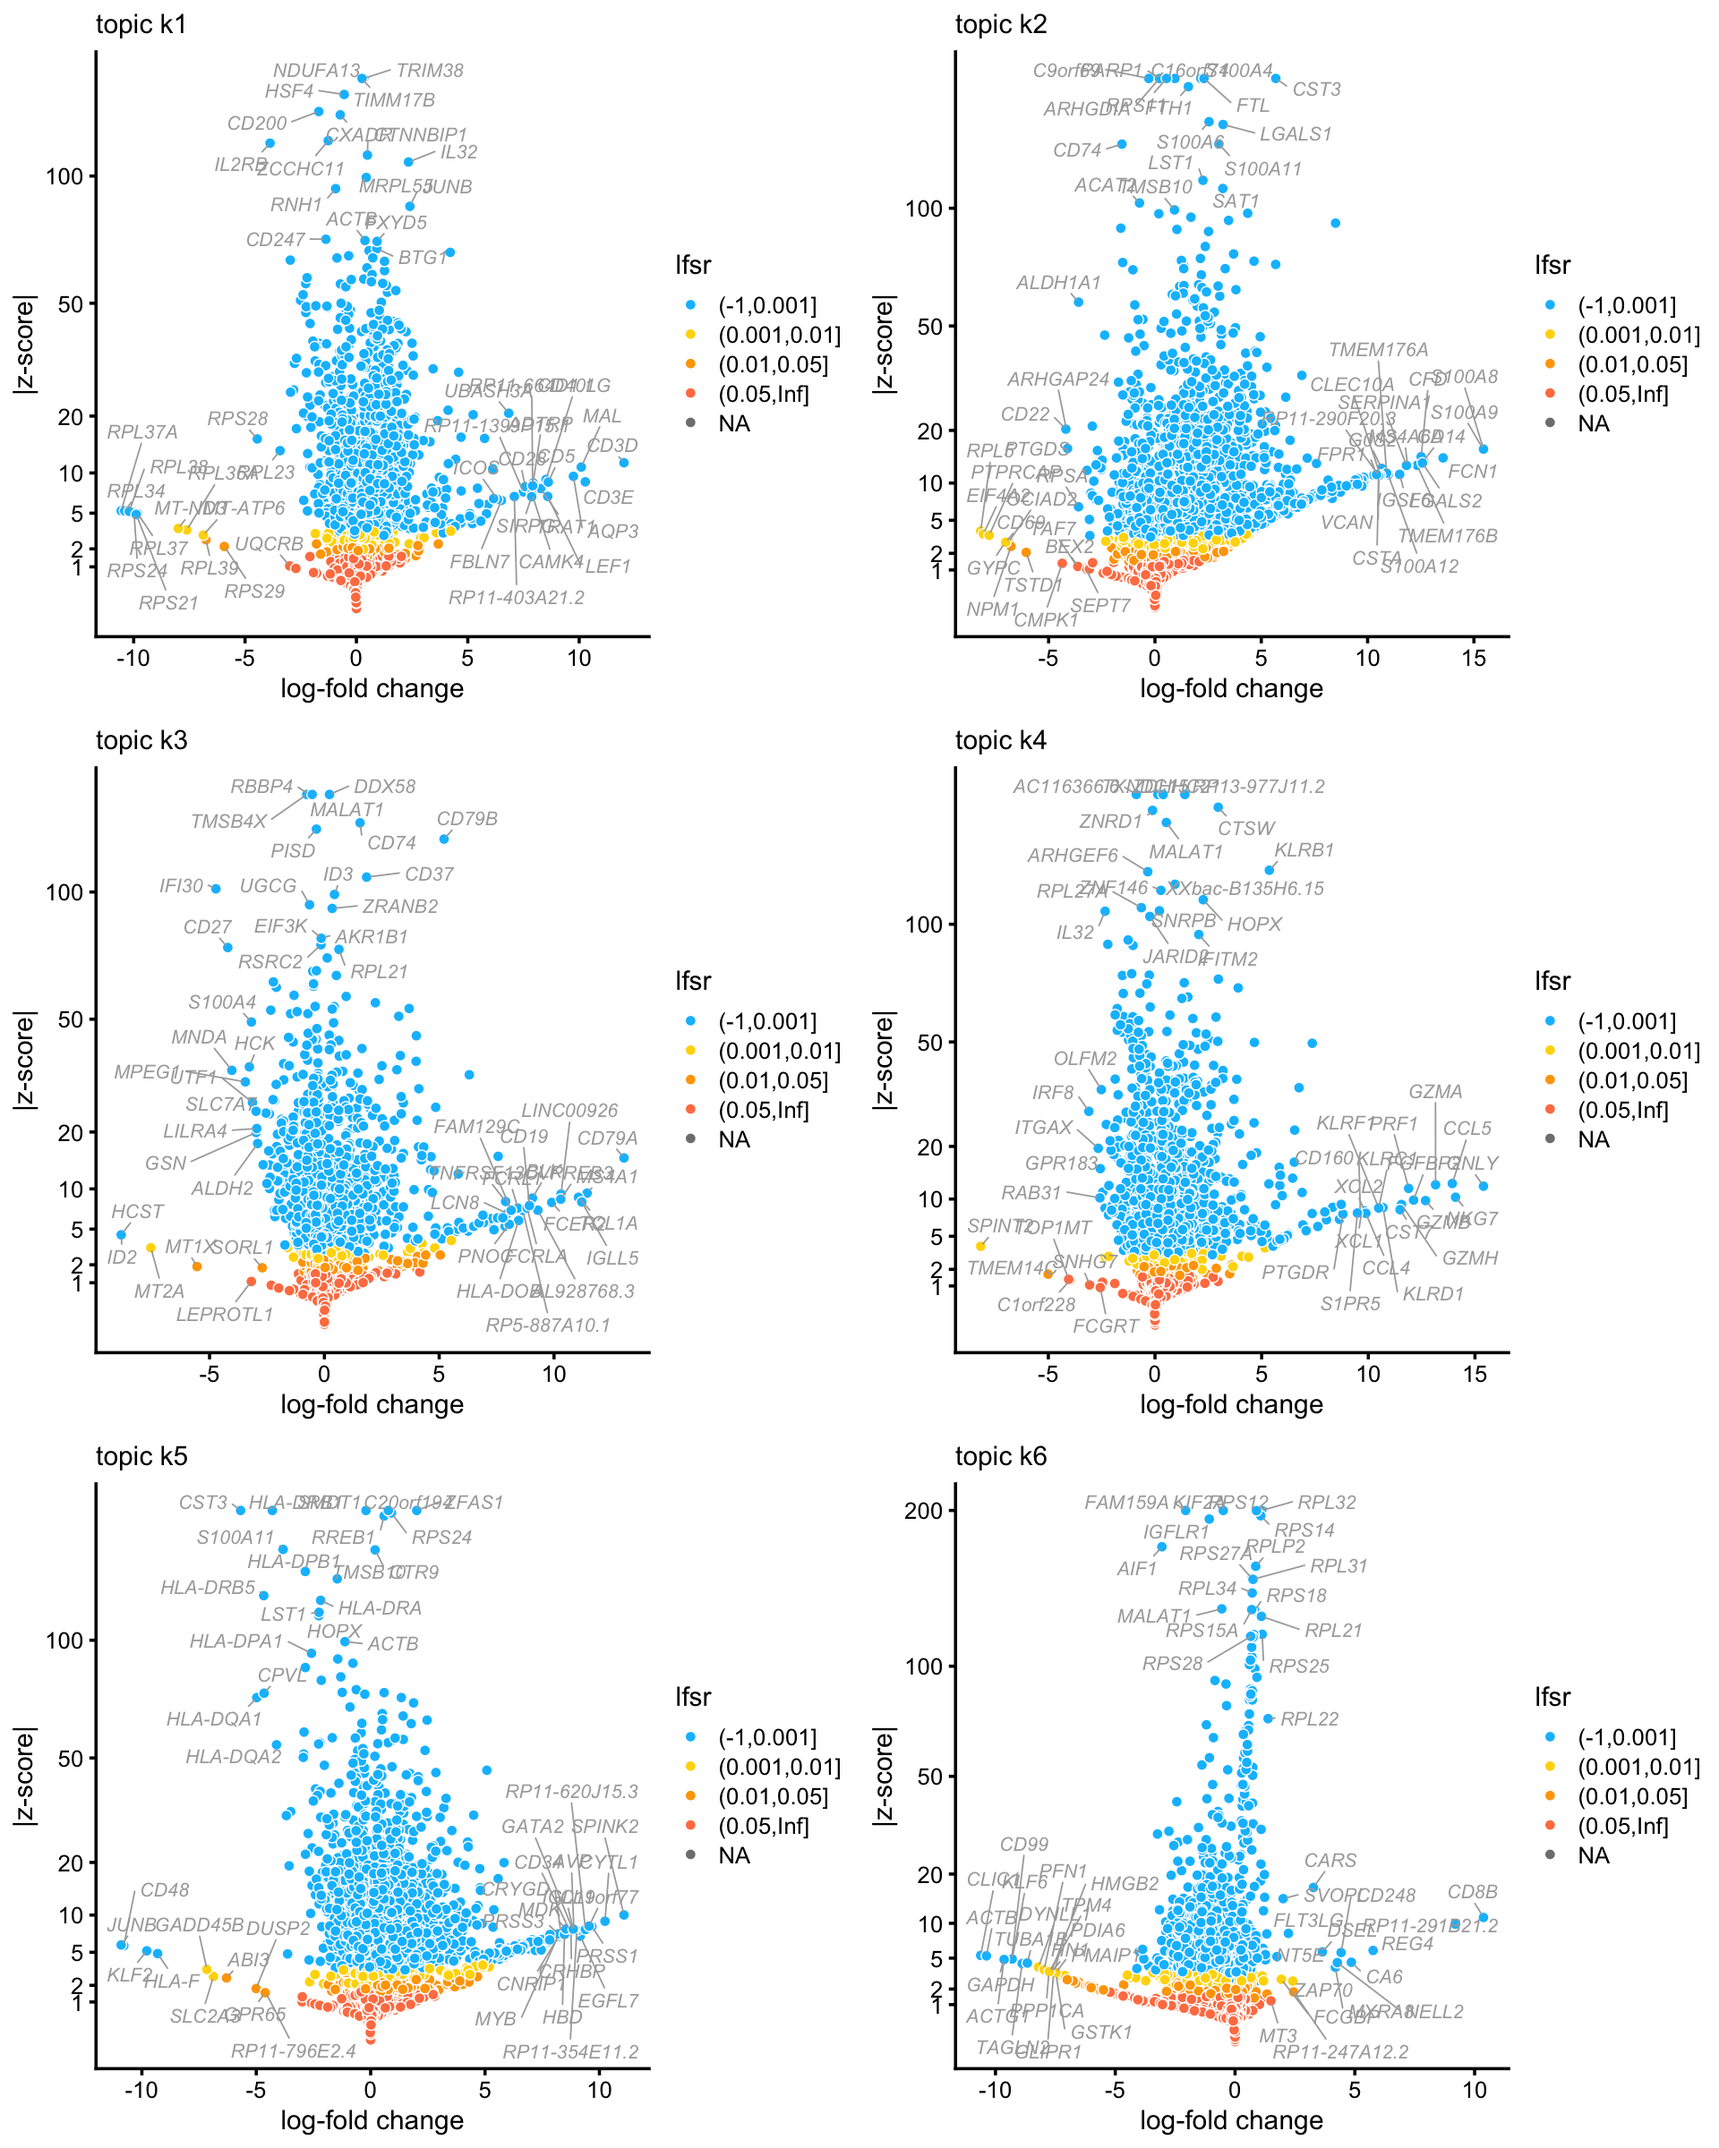
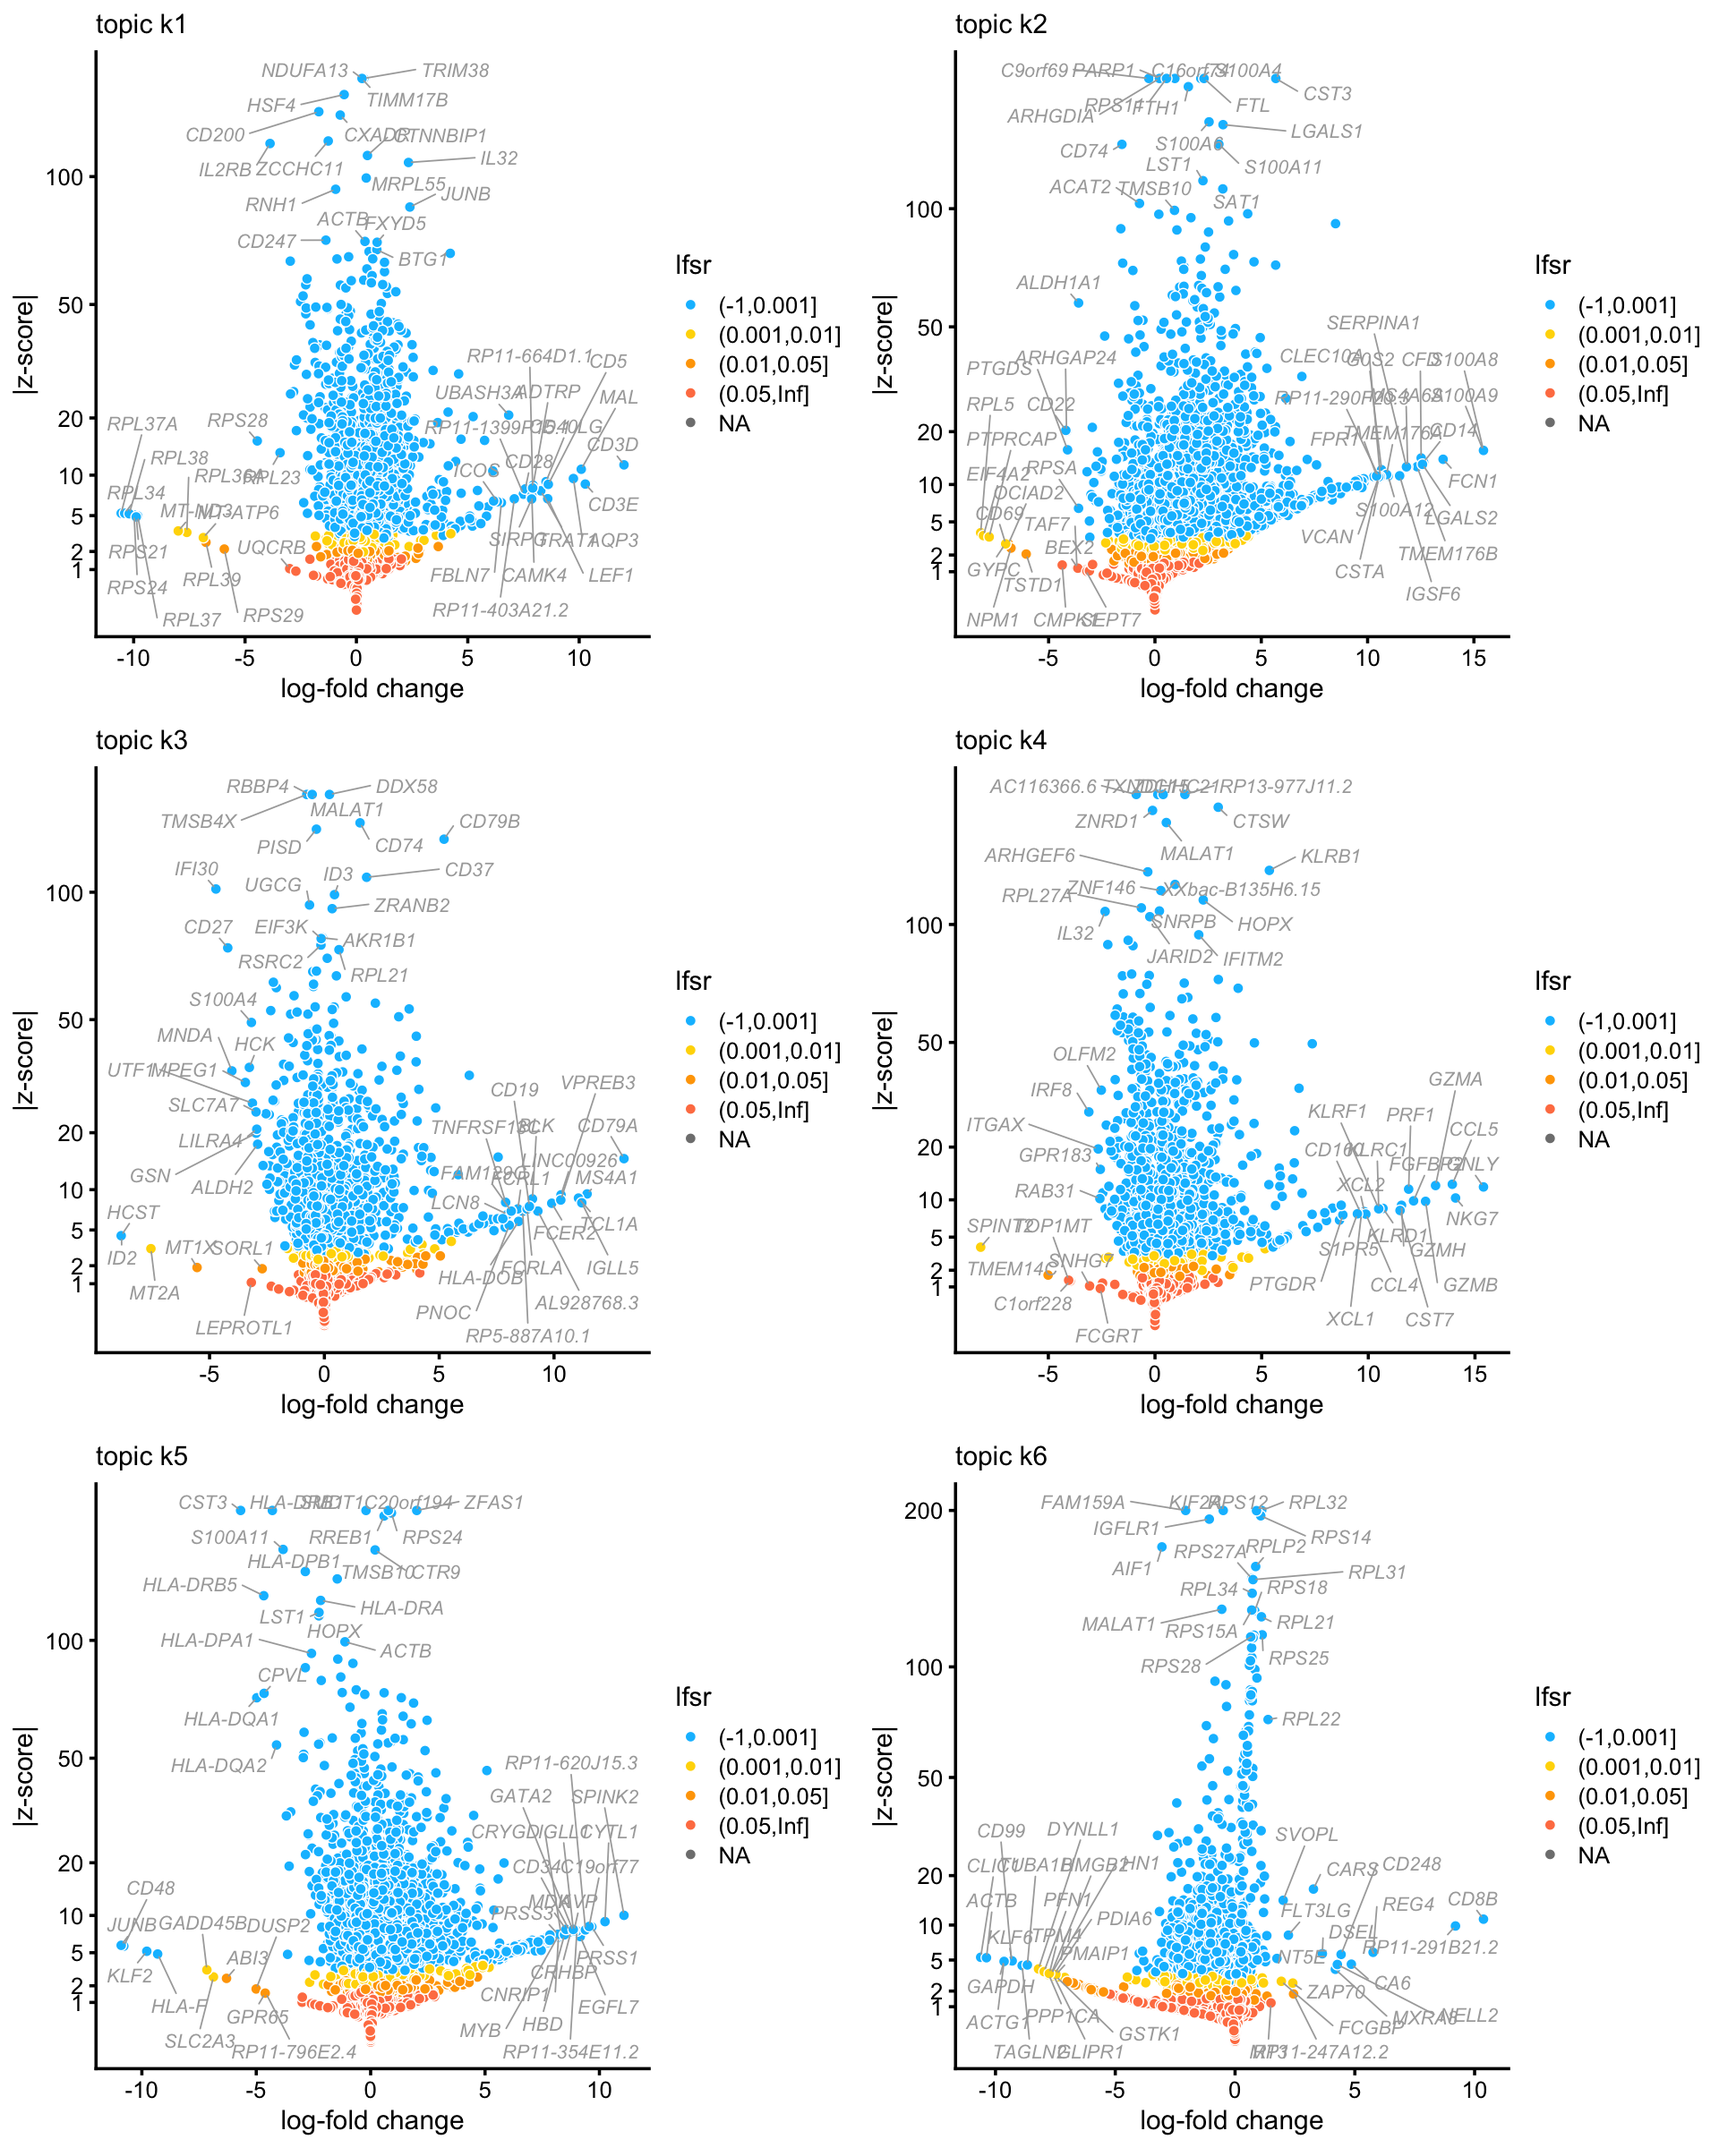
Revised the volcano plots in the de_analysis_purified_pbmc analysis.

diff --git a/docs/de_analysis_purified_pbmc.html b/docs/de_analysis_purified_pbmc.html
@@ -323,7 +323,7 @@ $(document).ready(function () {
 <div class="tab-content">
 <div id="summary" class="tab-pane fade in active">
 <p>
-<strong>Last updated:</strong> 2021-12-09
+<strong>Last updated:</strong> 2021-12-10
 </p>
 <p>
 <strong>Checks:</strong> <span class="glyphicon glyphicon-ok text-success" aria-hidden="true"></span> 7 <span class="glyphicon glyphicon-exclamation-sign text-danger" aria-hidden="true"></span> 0
@@ -414,16 +414,16 @@ This reproducible <a href="http://rmarkdown.rstudio.com">R Markdown</a> analysis
 <div class="panel panel-default">
 <div class="panel-heading">
 <p class="panel-title">
-<a data-toggle="collapse" data-parent="#workflowr-checks" href="#strongRepositoryversionstrongahrefhttpsgithubcomstephenslabsinglecelltopicstree7a99e6b0ca36e515f7a65173c32d9951f303cea5targetblank7a99e6ba"> <span class="glyphicon glyphicon-ok text-success" aria-hidden="true"></span> <strong>Repository version:</strong> <a href="https://github.com/stephenslab/single-cell-topics/tree/7a99e6b0ca36e515f7a65173c32d9951f303cea5" target="_blank">7a99e6b</a> </a>
+<a data-toggle="collapse" data-parent="#workflowr-checks" href="#strongRepositoryversionstrongahrefhttpsgithubcomstephenslabsinglecelltopicstree4aac42e3a7743981f7dd6d23c6e7d5aa73739eb9targetblank4aac42ea"> <span class="glyphicon glyphicon-ok text-success" aria-hidden="true"></span> <strong>Repository version:</strong> <a href="https://github.com/stephenslab/single-cell-topics/tree/4aac42e3a7743981f7dd6d23c6e7d5aa73739eb9" target="_blank">4aac42e</a> </a>
 </p>
 </div>
[2 lines of base64/hex data omitted]
 <div class="panel-body">
 <p>
 Great! You are using Git for version control. Tracking code development and connecting the code version to the results is critical for reproducibility.
 </p>
 <p>
-The results in this page were generated with repository version <a href="https://github.com/stephenslab/single-cell-topics/tree/7a99e6b0ca36e515f7a65173c32d9951f303cea5" target="_blank">7a99e6b</a>. See the <em>Past versions</em> tab to see a history of the changes made to the R Markdown and HTML files.
+The results in this page were generated with repository version <a href="https://github.com/stephenslab/single-cell-topics/tree/4aac42e3a7743981f7dd6d23c6e7d5aa73739eb9" target="_blank">4aac42e</a>. See the <em>Past versions</em> tab to see a history of the changes made to the R Markdown and HTML files.
 </p>
 <p>
 Note that you need to be careful to ensure that all relevant files for the analysis have been committed to Git prior to generating the results (you can use <code>wflow_publish</code> or <code>wflow_git_commit</code>). workflowr only checks the R Markdown file, but you know if there are other scripts or data files that it depends on. Below is the status of the Git repository when the results were generated:
@@ -446,6 +446,7 @@ Ignored files:
     Ignored:    output/pulseseq/rds/
 
 Untracked files:
+    Untracked:  .DS_Store
     Untracked:  analysis/de_analysis_detailed_look_cache/
     Untracked:  analysis/de_analysis_detailed_look_more_cache/
     Untracked:  plots/
@@ -487,6 +488,57 @@ Message
 </tr>
 </thead>
 <tbody>
+<tr>
+<td>
+Rmd
+</td>
+<td>
+<a href="https://github.com/stephenslab/single-cell-topics/blob/4aac42e3a7743981f7dd6d23c6e7d5aa73739eb9/analysis/de_analysis_purified_pbmc.Rmd" target="_blank">4aac42e</a>
+</td>
+<td>
+Peter Carbonetto
+</td>
+<td>
+2021-12-10
+</td>
+<td>
+workflowr::wflow_publish(“de_analysis_purified_pbmc.Rmd”, verbose = TRUE)
+</td>
+</tr>
+<tr>
+<td>
+Rmd
+</td>
+<td>
+<a href="https://github.com/stephenslab/single-cell-topics/blob/c1825e6d982b62c409d7b606889f36ceb232fdfe/analysis/de_analysis_purified_pbmc.Rmd" target="_blank">c1825e6</a>
+</td>
+<td>
+Peter Carbonetto
+</td>
+<td>
+2021-12-09
+</td>
+<td>
+Small fix to ggsave call in de_analysis_purified_pbmc analysis.
+</td>
+</tr>
+<tr>
+<td>
+html
+</td>
+<td>
+<a href="https://rawcdn.githack.com/stephenslab/single-cell-topics/241361544a8108e4d291d6654673f7182f2bb60f/docs/de_analysis_purified_pbmc.html" target="_blank">2413615</a>
+</td>
+<td>
+Peter Carbonetto
+</td>
+<td>
+2021-12-09
+</td>
+<td>
+Revised a number of plots in the de_analysis_purified_pbmc analysis.
+</td>
+</tr>
 <tr>
 <td>
 Rmd
@@ -1312,6 +1364,17 @@ Date
 <tbody>
 <tr>
 <td>
+<a href="https://github.com/stephenslab/single-cell-topics/blob/241361544a8108e4d291d6654673f7182f2bb60f/docs/figure/de_analysis_purified_pbmc.Rmd/assess-monte-carlo-1-1.png" target="_blank">2413615</a>
+</td>
+<td>
+Peter Carbonetto
+</td>
+<td>
+2021-12-09
+</td>
+</tr>
+<tr>
+<td>
 <a href="https://github.com/stephenslab/single-cell-topics/blob/29aada6272d398a823dcb8d9a2a5fd3e2b7d4912/docs/figure/de_analysis_purified_pbmc.Rmd/assess-monte-carlo-1-1.png" target="_blank">29aada6</a>
 </td>
 <td>
@@ -1386,6 +1449,17 @@ Date
 </tr>
 </thead>
 <tbody>
+<tr>
+<td>
+<a href="https://github.com/stephenslab/single-cell-topics/blob/241361544a8108e4d291d6654673f7182f2bb60f/docs/figure/de_analysis_purified_pbmc.Rmd/assess-monte-carlo-3-1.png" target="_blank">2413615</a>
+</td>
+<td>
+Peter Carbonetto
+</td>
+<td>
+2021-12-09
+</td>
+</tr>
 <tr>
 <td>
 <a href="https://github.com/stephenslab/single-cell-topics/blob/29aada6272d398a823dcb8d9a2a5fd3e2b7d4912/docs/figure/de_analysis_purified_pbmc.Rmd/assess-monte-carlo-3-1.png" target="_blank">29aada6</a>
@@ -1589,6 +1663,17 @@ Date
 <tbody>
 <tr>
 <td>
+<a href="https://github.com/stephenslab/single-cell-topics/blob/241361544a8108e4d291d6654673f7182f2bb60f/docs/figure/de_analysis_purified_pbmc.Rmd/bcells-z-scores-1.png" target="_blank">2413615</a>
+</td>
+<td>
+Peter Carbonetto
+</td>
+<td>
+2021-12-09
+</td>
+</tr>
+<tr>
+<td>
 <a href="https://github.com/stephenslab/single-cell-topics/blob/b6a778fffd388308d30c6343617f09f02bcf91a7/docs/figure/de_analysis_purified_pbmc.Rmd/bcells-z-scores-1.png" target="_blank">b6a778f</a>
 </td>
 <td>
@@ -1696,12 +1781,19 @@ Peter Carbonetto
 <li><p>DESeq2 and fastTopics largely identify the same genes with the largest expression increases (largest LFC), but fastTopics estimates larger LFCs for these genes.</p></li>
 </ul>
 <p>The fastTopics DE analysis for all 6 topics is summarized in the following volcano plots:</p>
-<pre class="r"><code>p1 &lt;- volcano_plot(de,k = &quot;k1&quot;,ymax = 150,labels = genes$symbol)
-p2 &lt;- volcano_plot(de,k = &quot;k2&quot;,ymax = 175,labels = genes$symbol)
-p3 &lt;- volcano_plot(de,k = &quot;k3&quot;,ymax = 150,labels = genes$symbol)
-p4 &lt;- volcano_plot(de,k = &quot;k4&quot;,ymax = 175,labels = genes$symbol)
-p5 &lt;- volcano_plot(de,k = &quot;k5&quot;,ymax = 175,labels = genes$symbol)
-p6 &lt;- volcano_plot(de,k = &quot;k6&quot;,ymax = 200,labels = genes$symbol)
+<pre class="r"><code>my_ggplot_call &lt;- function (dat, plot.title, max.overlaps) {
+  i &lt;- which(with(dat,zabs &gt; 0.5 | abs(postmean) &gt; 0.5))
+  j &lt;- sample(which(with(dat,zabs &lt;= 1 &amp; abs(postmean) &lt;= 0.5)),100)
+  dat &lt;- dat[c(i,j),]
+  print(nrow(dat))
+  return(volcano_plot_ggplot_call(dat,plot.title,max.overlaps))
+}
+p1 &lt;- volcano_plot(de,k = &quot;k1&quot;,ymax = 150,labels = genes$symbol,ggplot_call = my_ggplot_call)
+p2 &lt;- volcano_plot(de,k = &quot;k2&quot;,ymax = 175,labels = genes$symbol,ggplot_call = my_ggplot_call)
+p3 &lt;- volcano_plot(de,k = &quot;k3&quot;,ymax = 150,labels = genes$symbol,ggplot_call = my_ggplot_call)
+p4 &lt;- volcano_plot(de,k = &quot;k4&quot;,ymax = 175,labels = genes$symbol,ggplot_call = my_ggplot_call)
+p5 &lt;- volcano_plot(de,k = &quot;k5&quot;,ymax = 175,labels = genes$symbol,ggplot_call = my_ggplot_call)
+p6 &lt;- volcano_plot(de,k = &quot;k6&quot;,ymax = 200,labels = genes$symbol,ggplot_call = my_ggplot_call)
 plot_grid(p1,p2,p3,p4,p5,p6,nrow = 3,ncol = 2)</code></pre>
 <p><img src="figure/de_analysis_purified_pbmc.Rmd/volcano-plots-1.png" width="960" style="display: block; margin: auto;" /></p>
 <p>
@@ -1726,6 +1818,17 @@ Date
 </tr>
 </thead>
 <tbody>
+<tr>
+<td>
+<a href="https://github.com/stephenslab/single-cell-topics/blob/241361544a8108e4d291d6654673f7182f2bb60f/docs/figure/de_analysis_purified_pbmc.Rmd/volcano-plots-1.png" target="_blank">2413615</a>
+</td>
+<td>
+Peter Carbonetto
+</td>
+<td>
+2021-12-09
+</td>
+</tr>
 <tr>
 <td>
 <a href="https://github.com/stephenslab/single-cell-topics/blob/b6a778fffd388308d30c6343617f09f02bcf91a7/docs/figure/de_analysis_purified_pbmc.Rmd/volcano-plots-1.png" target="_blank">b6a778f</a>
@@ -1785,6 +1888,12 @@ Peter Carbonetto
 </table>
 </div>
 </div>
+<pre><code># [1] 5173
+# [1] 4691
+# [1] 4350
+# [1] 5101
+# [1] 6007
+# [1] 4043</code></pre>
 <p>These same results can also be explored in interactive volcano plots:</p>
 <pre class="r"><code>volcano_plotly(de,k = &quot;k1&quot;,ymax = 150,labels = genes$symbol,
                file = &quot;de_analysis_purified_pbmc_tcells.html&quot;,
